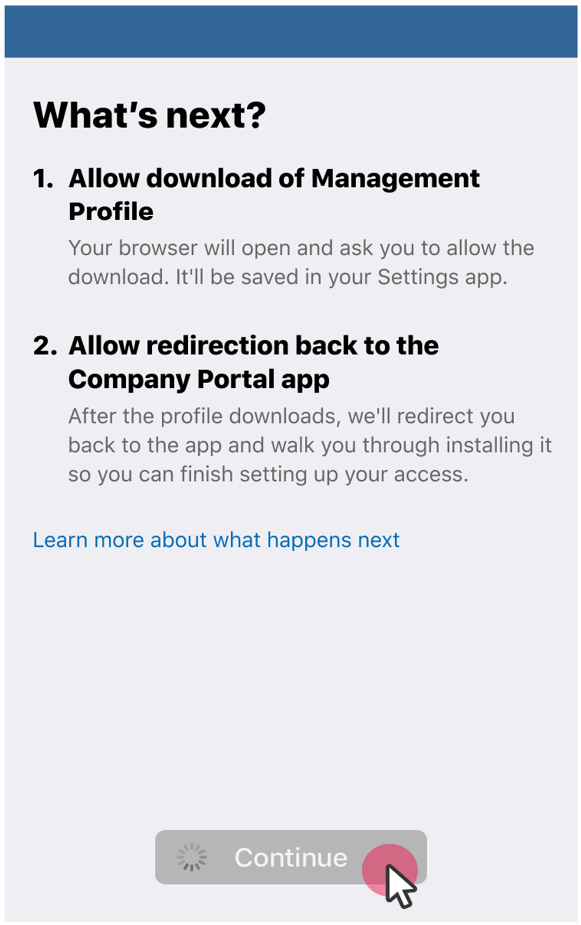
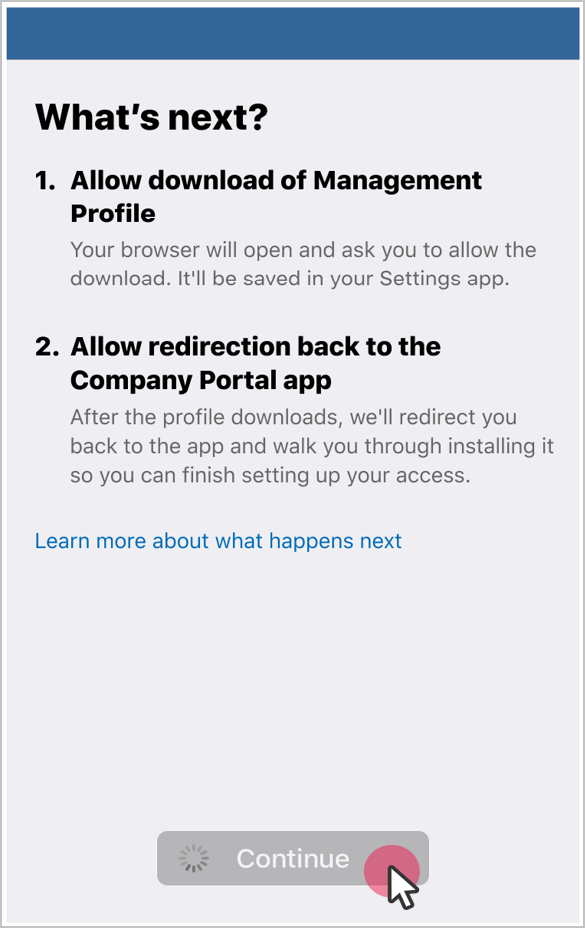
Fixed image sizes and rearranged some text

diff --git a/intune-user-help/enroll-your-device-in-intune-ios.md b/intune-user-help/enroll-your-device-in-intune-ios.md
@@ -55,9 +55,7 @@ To learn more about enrollment, see [What happens when I install the Company Por
 
 ## Enroll your iOS device   
 
-> [!IMPORTANT]     
-
-Go to the App store to download and install the [Intune Company Portal app](install-and-sign-in-to-the-intune-company-portal-app-ios.md) to your device. During enrollment, you'll also need a Wi-Fi connection and access to Safari. 
+Go to the App store to download and install the [Intune Company Portal app](install-and-sign-in-to-the-intune-company-portal-app-ios.md) on your device. You'll also need to maintain a Wi-Fi connection and have access to Safari during enrollment. 
 
 Pausing for more than a few minutes during enrollment might cause the app to close or end setup. If this happens, open the Company Portal app and try again.  
 
@@ -83,9 +81,11 @@ Pausing for more than a few minutes during enrollment might cause the app to clo
 
 6. Safari opens the Company Portal website. When prompted to download the configuration profile, tap **Allow**.  
 
+    If you accidentally tap **Ignore**, refresh the page. You'll be prompted to open the Company Portal app. From the app, tap **Download again**.  
+
     ![Example screenshot of Safari browser, configuration profile prompt, with **Ignore** and **Allow** buttons.](./media/ios-1904-allow-download.PNG)  
 
-    If you accidentally tap **Ignore**, refresh the page. You'll be prompted to open the Company Portal app, where you can then tap **Download again**.    
+  
 
 7. When the download is complete, tap **Done**.   
 
